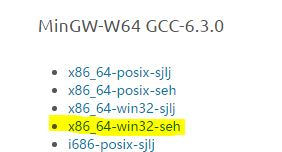
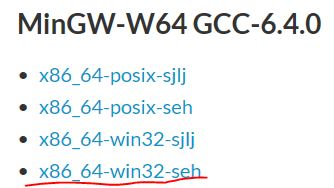
GCC

diff --git a/guide/BuildingSoftwareEnvironment.md b/guide/BuildingSoftwareEnvironment.md
@@ -162,7 +162,7 @@ Visual Studio Code is a lightweight but powerful source code editor which runs o
 
 * 1 Goto MinGW mother site at：https://sourceforge.net/projects/mingw-w64/files/?source=navbar
 
-    Downloads x86_64-6.3.0-release-win32-sjlj or seh
+    Downloads x86_64-6.4.0-release-win32-sjlj or seh
      
     * sjlj: 32 and 64 bits,but it incurs a minor 
      performance penalty
